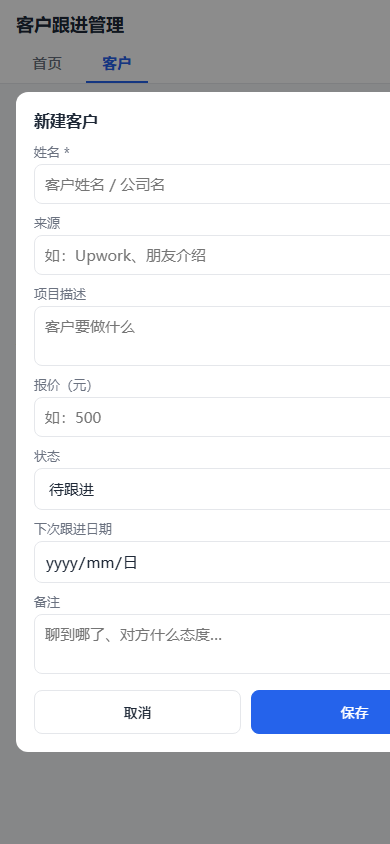
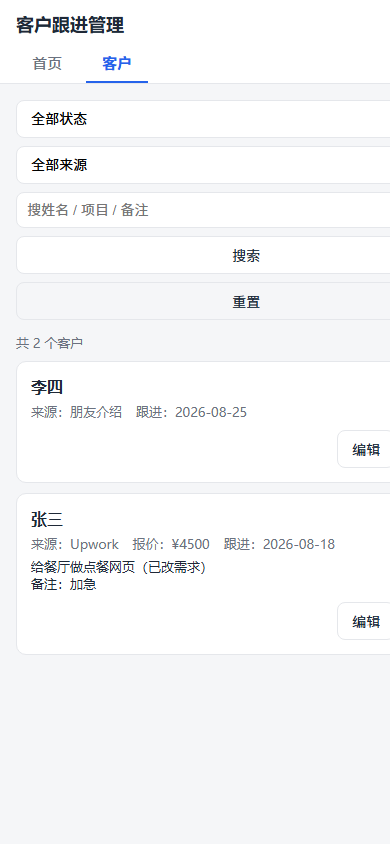
代码审查后修复：弹窗遮罩bug、Railway持久化、XSS、错误契约、测试库隔离
Critical:
- [hidden]{display:none!important} 修复弹窗遮罩永远显示、应用打开即被挡住
- DB_PATH 环境变量化 + railway.json + 卷挂载说明，避免线上数据静默丢失
Important:
- 来源下拉框改 createElement 构建，修复属性注入存储型 XSS
- RequestValidationError 统一转 400 中文，前端兼容数组 detail
- verify_api 文档要求独立测试库，新增 4 项格式错误用例
Minor: 严格日期校验、WAL+busy_timeout、防重复提交、来源下拉全量构建、
get_stats 兜底、Python 3.10+ 说明、静态目录绝对路径、依赖锁版本

diff --git a/static/app.js b/static/app.js
@@ -15,11 +15,16 @@ async function api(path, options = {}) {
             ...options,
         });
         if (!resp.ok) {
-            // 后端出错时返回的 JSON 形如 {detail: "姓名不能为空"}，取出来当提示
+            // 后端出错时返回的 JSON 形如 {detail: "姓名不能为空"}，取出来当提示。
+            // detail 通常是字符串，但某些校验错误（旧版后端）是数组，做一层兼容。
             let msg = `请求失败（HTTP ${resp.status}）`;
             try {
                 const body = await resp.json();
-                if (body.detail) msg = body.detail;
+                if (Array.isArray(body.detail)) {
+                    msg = body.detail[0]?.msg || msg;
+                } else if (body.detail) {
+                    msg = body.detail;
+                }
             } catch { /* 后端没返回 JSON 就用上面的默认提示 */ }
             throw new Error(msg);
         }
@@ -133,22 +138,49 @@ async function renderClients() {
     list.innerHTML = clients.length
         ? clients.map((c) => clientCardHTML(c)).join("")
         : `<p class="hint">没有符合条件的客户。点右下角 ＋ 新建一个吧。</p>`;
-
-    refreshSourceOptions(clients); // 每次拉完数据顺带更新"来源"下拉选项
 }
 
-function refreshSourceOptions(clients) {
-    // 来源下拉框 + 表单输入联想：选项来自现有数据里出现过的来源（去重排序）
-    const sources = [...new Set(clients.map((c) => c.source).filter(Boolean))].sort();
+// 所有客户的全量缓存（不带筛选），用于构建"来源"下拉选项。
+// 为什么单独存一份？如果从"筛选后的结果"里提取来源，选项会随筛选
+// 结果变化而缩水，用户选中的来源还可能被静默清空，体验很怪。
+let allClients = [];
+
+async function loadAllClientsForSources() {
+    // 拉一次全量列表（不要筛选参数），只用于来源下拉框的选项
+    allClients = await api("/api/clients");
+    refreshSourceOptions();
+}
+
+function refreshSourceOptions() {
+    // 来源下拉框 + 表单输入联想：选项来自全量客户中出现过的来源（去重排序）。
+    // 安全要点：不用字符串拼接 HTML，而是 createElement + 直接赋值
+    // .value / .textContent——这样无论来源里夹带什么字符（引号、<script>），
+    // 都只是普通文字，绝无可能变成 HTML/JS 执行（防存储型 XSS）。
+    const sources = [...new Set(allClients.map((c) => c.source).filter(Boolean))].sort();
 
     const select = document.getElementById("filter-source");
     const current = select.value; // 记住用户当前选的值，重建后别丢
-    select.innerHTML = `<option value="">全部来源</option>` +
-        sources.map((s) => `<option value="${escapeHtml(s)}">${escapeHtml(s)}</option>`).join("");
-    select.value = current;
+    select.innerHTML = "";        // 清空（此处没有拼接任何用户数据，安全）
 
-    document.getElementById("source-options").innerHTML =
-        sources.map((s) => `<option value="${escapeHtml(s)}"></option>`).join("");
+    const allOpt = document.createElement("option");
+    allOpt.value = "";
+    allOpt.textContent = "全部来源";
+    select.appendChild(allOpt);
+    for (const s of sources) {
+        const opt = document.createElement("option");
+        opt.value = s;          // 直接赋值属性，浏览器负责安全处理
+        opt.textContent = s;
+        select.appendChild(opt);
+    }
+    select.value = current;     // 若旧选中值已不存在，浏览器自动回落到第一项
+
+    const datalist = document.getElementById("source-options");
+    datalist.innerHTML = "";
+    for (const s of sources) {
+        const opt = document.createElement("option");
+        opt.value = s;
+        datalist.appendChild(opt);
+    }
 }
 
 /* ==================== 四、弹窗表单（新建 / 编辑共用） ==================== */
@@ -183,7 +215,15 @@ async function submitForm(event) {
     // 表单提交（点"保存"）：根据有没有隐藏 id 判断是新建还是编辑
     event.preventDefault(); // 阻止浏览器默认刷新页面
 
-    const id = document.getElementById("form-id").value;
+    // 防重复提交：请求期间禁用保存按钮。不这么做的话，快速双击
+    // "保存"会发两个请求、创建两条重复客户。
+    const saveBtn = document.querySelector('#client-form button[type="submit"]');
+    if (saveBtn.disabled) return;   // 已经在提交中了，忽略这次点击
+    saveBtn.disabled = true;
+    const originalText = saveBtn.textContent;
+    saveBtn.textContent = "保存中…";
+
+    const id = document.getElementById("form-id");
     // 报价输入框是文本类型；空串要转成 null 再提交——
     // 因为后端接口声明的是"数字或空"，空字符串会在接口校验时被拒绝
     const quoteInput = document.getElementById("form-quote").value.trim();
@@ -207,6 +247,10 @@ async function submitForm(event) {
         await refreshAll(); // 数据变了，首页和列表页都重新拉一遍
     } catch (err) {
         alert(err.message); // 后端校验不过（如姓名为空）时，这里弹出中文原因
+    } finally {
+        // 无论成功失败都恢复按钮，否则下次想保存时按钮还是灰的
+        saveBtn.disabled = false;
+        saveBtn.textContent = originalText;
     }
 }
 
@@ -235,9 +279,11 @@ function switchView(view) {
 }
 
 async function refreshAll() {
-    // 首页和列表页同时刷新（增删改之后调用）
+    // 首页和列表页同时刷新（增删改之后调用）；
+    // 顺带更新全量客户缓存（来源下拉框的选项来源）
     renderStats().catch(showError);
     renderClients().catch(showError);
+    loadAllClientsForSources().catch(showError);
 }
 
 function showError(err) {
@@ -327,5 +373,6 @@ function bindEvents() {
 document.addEventListener("DOMContentLoaded", () => {
     bindEvents();
     switchView(location.hash === "#clients" ? "clients" : "home");
-    renderStats().catch(showError); // 首页统计始终要加载
+    renderStats().catch(showError);            // 首页统计始终要加载
+    loadAllClientsForSources().catch(showError); // 来源下拉框选项
 });

diff --git a/static/style.css b/static/style.css
@@ -6,6 +6,12 @@
 */
 
 /* ---------- 基础 ---------- */
+/* 关键修复：HTML 的 hidden 属性本该让元素不显示（浏览器默认样式如此），
+   但只要任何作者样式给该元素写了 display（比如下面 .modal-mask 的
+   display:flex），作者样式优先级更高，hidden 就失效了——弹窗遮罩会
+   永远盖在页面上关不掉。所以这里强制规定：带 hidden 的元素一律不显示。 */
+[hidden] { display: none !important; }
+
 /* CSS 变量：把配色集中定义，想换主题只改这里 */
 :root {
     --primary: #2563eb;      /* 主色：按钮、高亮 */

diff --git a/main.py b/main.py
@@ -13,8 +13,11 @@
 """
 
 from contextlib import asynccontextmanager
+from pathlib import Path
 
-from fastapi import FastAPI, HTTPException, Query
+from fastapi import FastAPI, HTTPException, Query, Request
+from fastapi.exceptions import RequestValidationError
+from fastapi.responses import JSONResponse
 from fastapi.staticfiles import StaticFiles
 from pydantic import BaseModel, field_validator
 
@@ -33,6 +36,22 @@ async def lifespan(_app: FastAPI):
 
 # 创建 FastAPI 应用实例：整个后端的"总服务台"
 app = FastAPI(title="客户跟进管理", description="自由职业者的客户台账 API", lifespan=lifespan)
+
+
+# ==================== 统一错误格式 ====================
+# 默认情况下，请求体类型不对（比如报价传了 "abc"、漏传 name）会被
+# Pydantic 拒绝并返回 422 + 英文错误 + detail 是数组——这和本项目的
+# 约定（400 + 中文原因 + detail 是字符串）不一致，前端也没法直接展示。
+# 这里注册一个全局处理器，把这类"格式错误"翻译成统一的中文格式。
+@app.exception_handler(RequestValidationError)
+async def handle_validation_error(_request: Request, exc: RequestValidationError):
+    # exc.errors() 是错误列表，取第一条的 msg（如 "Input should be a
+    # valid number"），其余细节忽略——对小白用户来说一条就够用了。
+    first = exc.errors()[0] if exc.errors() else {}
+    field = first.get("loc", ["?"])[-1]  # loc 是出错字段的路径，取最后一段
+    reason = first.get("msg", "数据格式不正确")
+    detail = f"「{field}」字段格式不正确（{reason}）"
+    return JSONResponse(status_code=400, content={"detail": detail})
 
 
 # ==================== 请求体模型 ====================
@@ -129,6 +148,10 @@ def api_stats():
 # 把 static/ 目录整个挂到网站根路径：
 #   static/index.html  ->  http://localhost:8000/
 #   static/app.js      ->  http://localhost:8000/app.js
-# html=True 表示找不到具体文件时自动回落到 index.html（单页应用惯例）。
+# 注意两点：
+#   1) 路径用 Path(__file__) 拼绝对路径——不管从哪个目录启动服务都能找到前端；
+#   2) html=True 只对"目录请求"回落到 index.html（比如访问 /docs/），
+#      访问不存在的文件路径仍是 404。本应用用 # 锚点路由，不受影响。
+#   3) 挂载必须放在所有 API 路由之后，否则静态托管会"吃掉" /api/... 请求。
 
-app.mount("/", StaticFiles(directory="static", html=True), name="static")
+app.mount("/", StaticFiles(directory=Path(__file__).parent / "static", html=True), name="static")

diff --git a/verify_api.py b/verify_api.py
@@ -1,12 +1,18 @@
 # -*- coding: utf-8 -*-
 """verify_api.py —— 后端接口自检脚本（用 Python 自带库，无需额外依赖）
 
-用法：先启动服务（uvicorn main:app --port 8000），再另开一个终端运行：
-    .venv\\Scripts\\python verify_api.py
+⚠ 重要：本脚本会清空并写入测试数据，必须指向【独立的测试数据库】运行，
+   绝不能对着存了真实客户数据的库跑（会把数据抹掉）！
+
+推荐用法（用环境变量把数据库指到临时文件，测试库和真实库彻底隔离）：
+    先在一个终端启动测试实例：
+        DATABASE_PATH=test_clients.db .venv\\Scripts\\python -m uvicorn main:app --port 8000
+    再另开一个终端运行：
+        .venv\\Scripts\\python verify_api.py
+    测完把 test_clients.db 删掉即可（Windows PowerShell: Remove-Item test_clients.db）
 
 脚本按顺序把 增/查/筛选/改/统计/删/错误处理 全部真实调用一遍，
 每项输出 PASS 或 FAIL，最后给总结论。退出码：全部通过为 0，否则为 1。
-（注意：脚本会写入测试数据并删除其中一个，会改动数据库内容。）
 """
 
 import json
@@ -100,6 +106,20 @@ def main():
 
     code, err = call("POST", "/api/clients", {"name": "测试", "quote": -5})
     check("负数报价被拒绝（400）", code == 400, f"实际 {code} {err}")
+
+    # 下面三条是"格式错误"：由全局校验处理器统一转成 400 + 中文原因
+    code, err = call("POST", "/api/clients", {"name": "测试", "quote": "abc"})
+    check("非数字报价被拒绝（400 中文）",
+          code == 400 and isinstance(err.get("detail"), str), f"实际 {code} {err}")
+
+    code, err = call("POST", "/api/clients", {"status": "待跟进"})  # 整个 name 字段缺失
+    check("缺 name 字段被拒绝（400）", code == 400, f"实际 {code} {err}")
+
+    code, err = call("POST", "/api/clients", {"name": "测试", "next_followup": "2026-8-5"})
+    check("日期不补零被拒绝（400）", code == 400, f"实际 {code} {err}")
+
+    code, err = call("POST", "/api/clients", {"name": "测试", "next_followup": "2026-08-18abc"})
+    check("日期带垃圾尾巴被拒绝（400）", code == 400, f"实际 {code} {err}")
 
     code, err = call("GET", "/api/clients/99999")
     check("查不存在的客户返回 404", code == 404, f"实际 {code}")

diff --git a/README.md b/README.md
@@ -24,7 +24,7 @@
 
 ## 怎么运行
 
-需要 Python 3.9+。第一次使用：
+需要 Python 3.10+。第一次使用：
 
 ```powershell
 # 1. 在项目目录里创建虚拟环境（隔离依赖）
@@ -46,13 +46,18 @@ python -m uvicorn main:app --port 8000
 
 ### 方式一：自动化接口自检（推荐先跑这个）
 
-服务启动后，另开一个终端：
+⚠ 自检脚本会清空并写入测试数据，**必须指向独立的测试数据库运行**（绝不对着真实数据跑）：
 
 ```powershell
+# 终端一：用临时测试库启动服务
+$env:DATABASE_PATH = "test_clients.db"
+python -m uvicorn main:app --port 8000
+
+# 终端二：跑自检
 .venv\Scripts\python verify_api.py
 ```
 
-脚本会真实调用全部接口：增、查、筛选、改、统计、删、错误处理，共 26 项检查，全过输出「全部通过 🎉」。可重复运行（每次先清空数据）。
+脚本会真实调用全部接口：增、查、筛选、改、统计、删、错误处理（含格式错误的中文提示），共 30 项检查，全过输出「全部通过 🎉」。测完删除 test_clients.db 即可。
 
 ### 方式二：浏览器手动操作清单
 
@@ -86,9 +91,18 @@ python -m uvicorn main:app --port 8000
 | `static/index.html` | 页面骨架（首页 + 列表 + 新建/编辑弹窗） |
 | `static/style.css` | 移动优先样式 |
 | `static/app.js` | 前端逻辑：调 API、渲染、筛选、表单交互 |
-| `verify_api.py` | 接口自检脚本（26 项检查，可重复运行） |
+| `verify_api.py` | 接口自检脚本（30 项检查，可重复运行） |
+| `railway.json` | Railway 部署配置（启动命令 + 健康检查） |
 | `clients.db` | SQLite 数据文件（首次启动自动生成，已 gitignore） |
 
-## 部署
+## 部署（Railway）
 
-（本地验收通过后部署到 Railway，与 starter-rag-app 同平台。）
+仓库已带 `railway.json`（启动命令 + 健康检查路径），部署只需三步：
+
+1. 在 Railway 新建项目选本仓库（自动识别 Python + 启动命令）
+2. **挂载持久化卷**（关键！Railway 的容器硬盘是临时的，重启即清空，不挂卷客户数据会丢）：
+   - 项目 → Settings → Volumes → Add Volume，挂载路径填 `/data`
+   - 添加环境变量 `DATABASE_PATH=/data/clients.db`
+3. 部署完成后打开公开链接即可
+
+⚠ **安全提醒**：本项目没有登录功能，公开链接任何人都能读写数据。演示时只放假数据；如果要存真实客户信息，请先在 Railway 环境变量里配置访问口令并加一层校验（当前版本未做，属已知限制）。
